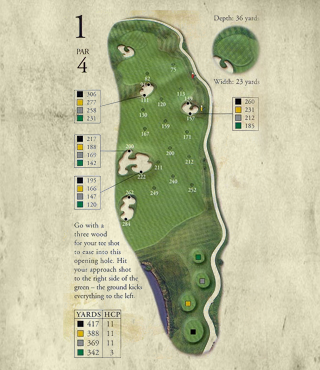
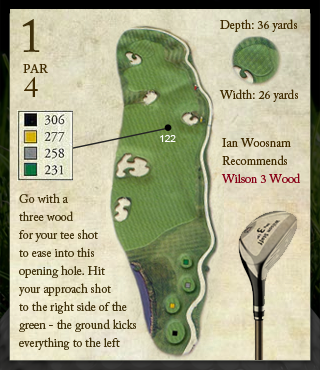
Added maps, advertising, and remote image functionality which will be turned off for presentation to client

diff --git a/Resources/windows/map/map.js b/Resources/windows/map/map.js
@@ -4,14 +4,28 @@ win.title = '';
 
 win.hideNavBar();
 
+/* This shows how the app could use the remote images on the server to keep up to date with changes on the course and flag positions.
+var view1 = Titanium.UI.createImageView({
+	image:'http://brde.smotyn.com/assets/img/courses/parc_golf_club/1.jpg',
+	defaultImage:'holes/hole1.png',
+	width:320,
+	height:370,
+	bottom:-5,
+	//borderWidth: 5,
+	//borderColor:'#000',
+});
+*/
+
+	
 var view1 = Ti.UI.createView({
 	width:320,
-	height:366,
-	bottom:0,
-	borderWidth: 5,
-	borderColor:'#000',
+	height:370,
+	bottom:-5,
+	//borderWidth: 5,
+	//borderColor:'#000',
 	backgroundImage:'holes/hole1.png',
 });
+
 var l1 = Ti.UI.createLabel({
 	text:'',
 	color:'#fff',
@@ -23,14 +37,14 @@ var l1 = Ti.UI.createLabel({
 view1.add(l1);
 
 var view2 = Ti.UI.createView({
-	width:216,
+	width:320,
 	height:370,
-	bottom:0,
-	backgroundImage:'holes/hole2.jpeg',
+	bottom:-5,
+	backgroundImage:'holes/hole2.png',
 	zIndex:1
 });
 var l2 = Ti.UI.createLabel({
-	text:'Hole 2',
+	text:'',
 	color:'#fff',
 	width:'auto',
 	height:'auto',
@@ -39,13 +53,13 @@ var l2 = Ti.UI.createLabel({
 view2.add(l2);
 
 var view3 = Ti.UI.createView({
-	width:216,
+	width:320,
 	height:370,
-	bottom:0,
-	backgroundImage:'holes/hole3.jpeg',
+	bottom:-5,
+	backgroundImage:'holes/hole3.png',
 });
 var l3 = Ti.UI.createLabel({
-	text:'Hole 3',
+	text:'',
 	color:'#fff',
 	width:'auto',
 	height:'auto',
@@ -53,33 +67,18 @@ var l3 = Ti.UI.createLabel({
 });
 view3.add(l3);
 
-var view4 = Ti.UI.createView({
-	width:216,
-	height:370,
-	bottom:0,
-	backgroundImage:'holes/hole4.jpeg',
-});
-var l4 = Ti.UI.createLabel({
-	text:'Hole 4',
-	color:'#fff',
-	width:'auto',
-	height:'auto',
-	top:0
-});
-view4.add(l4);
-
 
 var scrollView = Titanium.UI.createScrollableView({
-	views:[view1,view2,view3,view4],
+	views:[view1,view2,view3,],
 	showPagingControl:false,
 	pagingControlHeight:30,
 	maxZoomScale:2.0,
-	currentPage:1
+	currentPage:0
 });
 
 win.add(scrollView);
 
-var i=1;
+var i=0;
 var activeView = view1;
 
 scrollView.addEventListener('scroll', function(e)
@@ -151,11 +150,11 @@ toolbar.add(left);
 var t = Titanium.UI.create2DMatrix();
 t= t.rotate(90);
 var menuWin = Titanium.UI.createWindow({
-	backgroundImage:'images/menubox.png',
-	height:300,
+	backgroundImage:'holes/hole1_overlay.png',
+	height:370,
 	width:300,
-	top:32,
-	right:10,
+	bottom:45,
+	right:0,
 	anchorPoint:{x:1,y:0},
 	transform:t,
 	opacity:0
@@ -164,7 +163,7 @@ var menuWin = Titanium.UI.createWindow({
 var t2 = Titanium.UI.create2DMatrix();
 
 var navButton = Titanium.UI.createButton({
-	title:'Cheat!',
+	title:'Pro tips!',
 	bottom: 0,
 	left:0,
 	height:30,
